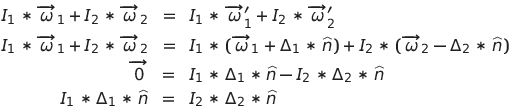
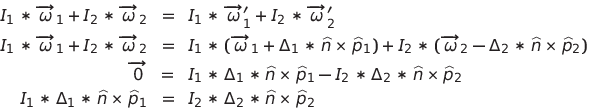
Removed an incorrect angular velocity equation.
Also tweaked other parts. Some of this is speculative... So need to think about it for a bit.

diff --git a/doc/physics.latex.md b/doc/physics.latex.md
@@ -130,23 +130,23 @@ I_1 * \overrightarrow{\omega}_1 + I_2 * \overrightarrow{\omega}_2 = I_1 * \overr
 ## angular_momenum_changes
 ```latex
 \begin{cases}
-\overrightarrow{\omega}_1' = \overrightarrow{\omega}_1 + \Delta_1 * \widehat{n} \\
-\overrightarrow{\omega}_2' = \overrightarrow{\omega}_2 - \Delta_2 * \widehat{n}
+\overrightarrow{\omega}_1' = \overrightarrow{\omega}_1 + \Delta_1 * \widehat{n} \times \widehat{p}_1 \\
+\overrightarrow{\omega}_2' = \overrightarrow{\omega}_2 - \Delta_2 * \widehat{n} \times \widehat{p}_2
 \end{cases}
 ```
 
 ## angular_momentum_distributed
 ```latex
 I_1 * \overrightarrow{\omega}_1 + I_2 * \overrightarrow{\omega}_2 &=& I_1 * \overrightarrow{\omega}_1' + I_2 * \overrightarrow{\omega}_2' \\
-I_1 * \overrightarrow{\omega}_1 + I_2 * \overrightarrow{\omega}_2 &=& I_1 * (\overrightarrow{\omega}_1 + \Delta_1 * \widehat{n}) + I_2 * (\overrightarrow{\omega}_2 - \Delta_2 * \widehat{n}) \\
-\overrightarrow{0} &=& I_1 * \Delta_1 * \widehat{n} - I_2 * \Delta_2 * \widehat{n} \\
-I_1 * \Delta_1 * \widehat{n} &=& I_2 * \Delta_2 * \widehat{n}
+I_1 * \overrightarrow{\omega}_1 + I_2 * \overrightarrow{\omega}_2 &=& I_1 * (\overrightarrow{\omega}_1 + \Delta_1 * \widehat{n} \times \widehat{p}_1) + I_2 * (\overrightarrow{\omega}_2 - \Delta_2 * \widehat{n} \times \widehat{p}_2) \\
+\overrightarrow{0} &=& I_1 * \Delta_1 * \widehat{n} \times \widehat{p}_1 - I_2 * \Delta_2 * \widehat{n} \times \widehat{p}_2 \\
+I_1 * \Delta_1 * \widehat{n} \times \widehat{p}_1 &=& I_2 * \Delta_2 * \widehat{n} \times \widehat{p}_2
 ```
 
 ## angular_momenum_changes_updated
 ```latex
 \begin{cases}
-\overrightarrow{\omega}_1' = \overrightarrow{\omega}_1 + I_1^{-1} * \widehat{n} * \Delta \\
-\overrightarrow{\omega}_2' = \overrightarrow{\omega}_2 - I_2^{-1} * \widehat{n} * \Delta
+\overrightarrow{\omega}_1' = \overrightarrow{\omega}_1 + I_1^{-1} * \Delta * \widehat{n} \times \widehat{p}_1 \\
+\overrightarrow{\omega}_2' = \overrightarrow{\omega}_2 - I_2^{-1} * \Delta * \widehat{n} \times \widehat{p}_2 
 \end{cases}
 ```

diff --git a/doc/physics.md b/doc/physics.md
@@ -165,7 +165,7 @@ So the vector's direction is the axis of rotation, and it's length is how much t
 Now with that, it's next important to understand how linear energy is moved into rotation. That is to say, it's time to start using cross product. Now if a force is applied to an object, then it can rotate the object by producing a torque, which is calculated by:
 
 ```
-torque = force_vector X offset
+torque = offset X force_vector
 ```
 
 Here the `X` means **cross product**, and the `offset` is the vector from the object's **center of mass** to the point where the force is being applied. (More on why the center of mass is important soon.) The torque is basically the rotational equivalent to a linear force.
@@ -173,8 +173,7 @@ Here the `X` means **cross product**, and the `offset` is the vector from the ob
 Notably the cross product can also be used to convert the angular velocity of an object into the linear velocity at a specific point:
 
 ```
-angular_velocity = linear_velocity X offset
-angular_velocity X offset = linear_velocity
+angular_velocity X (p - center_of_mass) = linear_velocity_at_p
 ```
 
 This will become useful later when discussing collisions.
